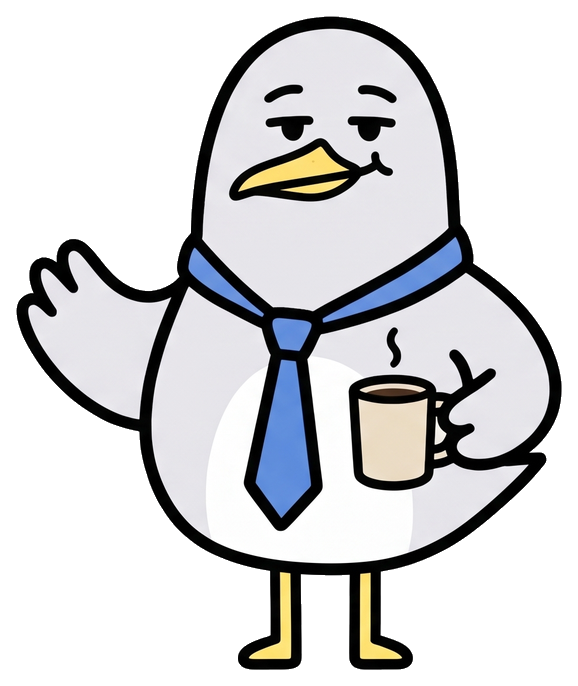
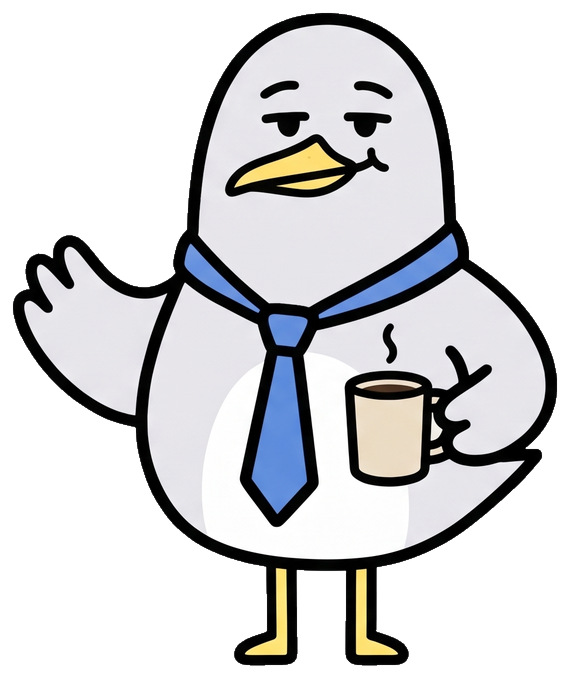
fix: 면접 세션은 상반신 확대샷을 쓰고 누끼를 재정리
세션은 *-bust.png, 던전 카드는 전신을 사용한다. 체크보드/헤일로 제거를 보강했다.

diff --git a/src/pages/InterviewProcess.tsx b/src/pages/InterviewProcess.tsx
@@ -1,7 +1,7 @@
 import { useState, useEffect } from 'react';
 import { useParams, useNavigate, useLocation } from 'react-router-dom';
 import { authService } from '../domains/auth/auth.service';
-import { engineService, getInterviewerAvatarByLevel } from '../domains/interview/interview.service';
+import { engineService, getInterviewerBustByLevel } from '../domains/interview/interview.service';
 import { pickOpeningGreeting } from '../domains/interview/openingGreetings';
 import { evaluationService } from '../domains/progress/progress.service';
 import { fileService } from '../domains/resume/resume.service';
@@ -66,7 +66,8 @@ function interviewerFromRouteState(state: unknown, interviewerId: string | undef
   return {
     name: candidate.name,
     level: candidate.level,
-    avatar: candidate.avatar || getInterviewerAvatarByLevel(candidate.level),
+    // 세션은 상반신 확대샷을 쓴다.
+    avatar: getInterviewerBustByLevel(candidate.level),
   };
 }
 
@@ -92,7 +93,7 @@ export default function InterviewProcess() {
       interviewerFromRouteState(location.state, interviewerId) ?? {
         name: '면접관',
         level: 1,
-        avatar: getInterviewerAvatarByLevel(1),
+        avatar: getInterviewerBustByLevel(1),
       }
   );
 
@@ -115,7 +116,7 @@ export default function InterviewProcess() {
             setInterviewer({
               name: matched.name,
               level: matched.level,
-              avatar: matched.avatar || getInterviewerAvatarByLevel(matched.level),
+              avatar: getInterviewerBustByLevel(matched.level),
             });
           }
         } catch (e) {
@@ -360,8 +361,8 @@ export default function InterviewProcess() {
             <InterviewerAvatar
               avatar={interviewer.avatar}
               name={interviewer.name}
-              className="max-h-[min(42vh,360px)] w-auto h-full"
-              imgClassName="max-h-[min(42vh,360px)] max-w-[min(90vw,420px)]"
+              className="max-h-[min(48vh,420px)] w-auto h-full"
+              imgClassName="max-h-[min(48vh,420px)] max-w-[min(92vw,520px)]"
             />
           </div>
         </div>

diff --git a/src/domains/interview/interview.service.ts b/src/domains/interview/interview.service.ts
@@ -60,9 +60,16 @@ function toInterviewer(item: InterviewerApiItem): Interviewer {
   };
 }
 
-/** 레벨 기준 페르소나 이미지 경로. Lv.3+는 빈 문자열(슬롯만 표시). */
+/** 던전 카드용 전신 아바타. Lv.3+는 빈 문자열. */
 export function getInterviewerAvatarByLevel(level: number): string {
   return STATIC_CONTENT_BY_LEVEL[level]?.avatar ?? '';
+}
+
+/** 면접 세션용 상반신 확대샷. Lv.3+는 빈 문자열. */
+export function getInterviewerBustByLevel(level: number): string {
+  if (level === 1) return '/interviewers/lv1-casual-bust.png';
+  if (level === 2) return '/interviewers/lv2-strict-bust.png';
+  return '';
 }
 
 function toStringId(id: number | null | undefined): string | undefined {

diff --git a/scripts/clean_interviewer_pngs.py b/scripts/clean_interviewer_pngs.py
@@ -1,20 +1,28 @@
-"""Remove baked checkerboard background from interviewer PNGs (numpy dilation)."""
+"""Clean baked checkerboard and export full + bust interviewer assets."""
 from __future__ import annotations
 
 from pathlib import Path
 
 import numpy as np
-from PIL import Image
+from PIL import Image, ImageFilter
 
 SRC_DIR = Path(r"C:\Users\dkwlr\Documents\프로그래머스_인턴쉽")
 OUT_DIR = Path(r"c:\Users\dkwlr\IdeaProjects\CareerDungeon\INT2_Team3_Vibe_FE\public\interviewers")
 
 JOBS = [
-    (SRC_DIR / "널널한대리png.png", OUT_DIR / "lv1-casual.png"),
-    (SRC_DIR / "깐깐한과장.png", OUT_DIR / "lv2-strict.png"),
+    (
+        SRC_DIR / "널널한대리png.png",
+        OUT_DIR / "lv1-casual.png",
+        SRC_DIR / "널널한대리_확대샷.png",
+        OUT_DIR / "lv1-casual-bust.png",
+    ),
+    (
+        SRC_DIR / "깐깐한과장.png",
+        OUT_DIR / "lv2-strict.png",
+        SRC_DIR / "깐깐한과장_확대샷.png",
+        OUT_DIR / "lv2-strict-bust.png",
+    ),
 ]
-
-MAX_SIDE = 900
 
 
 def near_bg(rgb: np.ndarray) -> np.ndarray:
@@ -25,7 +33,8 @@ def near_bg(rgb: np.ndarray) -> np.ndarray:
     mx = np.maximum(np.maximum(r, g), b)
     d_a = np.abs(r - 224) + np.abs(g - 224) + np.abs(b - 224)
     d_b = np.abs(r - 255) + np.abs(g - 255) + np.abs(b - 255)
-    return (chroma <= 18) & (mx >= 180) & (np.minimum(d_a, d_b) <= 84)
+    d_c = np.abs(r - 240) + np.abs(g - 240) + np.abs(b - 240)
+    return (chroma <= 14) & (mx >= 190) & (np.minimum(np.minimum(d_a, d_b), d_c) <= 70)
 
 
 def dilate4(mask: np.ndarray) -> np.ndarray:
@@ -37,38 +46,79 @@ def dilate4(mask: np.ndarray) -> np.ndarray:
     return out
 
 
-def remove_checkerboard(im: Image.Image) -> Image.Image:
-    arr = np.array(im.convert("RGBA"))
-    h, w = arr.shape[:2]
-    bg = near_bg(arr[..., :3])
+def erode4(mask: np.ndarray) -> np.ndarray:
+    return ~dilate4(~mask)
 
-    seed = np.zeros((h, w), dtype=bool)
+
+def border_connected(bg: np.ndarray) -> np.ndarray:
+    seed = np.zeros_like(bg, dtype=bool)
     seed[0, :] = bg[0, :]
     seed[-1, :] = bg[-1, :]
     seed[:, 0] = bg[:, 0]
     seed[:, -1] = bg[:, -1]
-
-    # border-connected background via repeated dilation (vectorized)
     filled = seed
     while True:
         nxt = dilate4(filled) & bg
         if np.array_equal(nxt, filled):
-            break
+            return filled
         filled = nxt
 
-    arr[filled, 3] = 0
-    return Image.fromarray(arr, "RGBA")
+
+def scrub_halos(arr: np.ndarray, passes: int = 3) -> None:
+    """투명에 붙은 밝은 회색/흰색 잔여(누끼 헤일로)를 반복 제거."""
+    for _ in range(passes):
+        alpha = arr[..., 3] > 8
+        fringe = dilate4(~alpha) & alpha
+        rgb = arr[..., :3].astype(np.int16)
+        chroma = np.maximum(np.maximum(rgb[..., 0], rgb[..., 1]), rgb[..., 2]) - np.minimum(
+            np.minimum(rgb[..., 0], rgb[..., 1]), rgb[..., 2]
+        )
+        mx = np.maximum(np.maximum(rgb[..., 0], rgb[..., 1]), rgb[..., 2])
+        # 검은 외곽선(어두움)은 남기고, 밝은 저채도 fringe만 제거
+        halo = fringe & (chroma <= 25) & (mx >= 170)
+        arr[halo, 3] = 0
 
 
-def autocrop(im: Image.Image, pad: int = 16) -> Image.Image:
+def remove_checkerboard(im: Image.Image) -> Image.Image:
+    arr = np.array(im.convert("RGBA"))
+    remove = border_connected(near_bg(arr[..., :3]))
+    arr[remove, 3] = 0
+    scrub_halos(arr, passes=4)
+
+    solid = arr[..., 3] > 0
+    solid = dilate4(erode4(solid))
+    arr[~solid, 3] = 0
+
+    out = Image.fromarray(arr, "RGBA")
+    a = out.getchannel("A").filter(ImageFilter.GaussianBlur(radius=0.45))
+    out.putalpha(a)
+    return out
+
+
+def autocrop(im: Image.Image, pad: int = 10) -> Image.Image:
     bbox = im.getchannel("A").getbbox()
     if not bbox:
         return im
     l, t, r, b = bbox
-    return im.crop((max(0, l - pad), max(0, t - pad), min(im.width, r + pad), min(im.height, b + pad)))
+    return im.crop(
+        (max(0, l - pad), max(0, t - pad), min(im.width, r + pad), min(im.height, b + pad))
+    )
 
 
-def downscale(im: Image.Image, max_side: int = MAX_SIDE) -> Image.Image:
+def bust_crop(im: Image.Image) -> Image.Image:
+    """상반신 비중을 키우기 위해 하단 일부를 잘라 더 타이트한 바스트샷으로."""
+    bbox = im.getchannel("A").getbbox()
+    if not bbox:
+        return im
+    l, t, r, b = bbox
+    h = b - t
+    # 하단 28% 컷 → 머리~가슴 강조
+    new_b = t + int(h * 0.72)
+    cropped = im.crop((l, t, r, max(t + 1, new_b)))
+    return autocrop(cropped, pad=8)
+
+
+def downscale(im: Image.Image, max_side: int) -> Image.Image:
     w, h = im.size
     scale = min(1.0, max_side / max(w, h))
     if scale >= 1.0:
@@ -76,13 +126,25 @@ def downscale(im: Image.Image, max_side: int = MAX_SIDE) -> Image.Image:
     return im.resize((int(w * scale), int(h * scale)), Image.Resampling.LANCZOS)
 
 
+def process(src: Path, dest: Path, max_side: int, as_bust: bool) -> None:
+    raw = downscale(Image.open(src).convert("RGBA"), max_side=1400)
+    cleaned = remove_checkerboard(raw)
+    cleaned = autocrop(cleaned)
+    if as_bust:
+        cleaned = bust_crop(cleaned)
+    cleaned = downscale(cleaned, max_side=max_side)
+    cleaned.save(dest, "PNG", optimize=True)
+    print(
+        f"OK {src.name} -> {dest.name} size={cleaned.size} alpha={cleaned.getchannel('A').getextrema()}",
+        flush=True,
+    )
+
+
 def main() -> None:
     OUT_DIR.mkdir(parents=True, exist_ok=True)
-    for src, dest in JOBS:
-        raw = downscale(Image.open(src).convert("RGBA"), max_side=1400)
-        cleaned = downscale(autocrop(remove_checkerboard(raw)), max_side=MAX_SIDE)
-        cleaned.save(dest, "PNG", optimize=True)
-        print(f"OK {src.name} -> {dest.name} size={cleaned.size} alpha={cleaned.getchannel('A').getextrema()}")
+    for full_src, full_dest, bust_src, bust_dest in JOBS:
+        process(full_src, full_dest, max_side=720, as_bust=False)
+        process(bust_src, bust_dest, max_side=960, as_bust=True)
 
 
 if __name__ == "__main__":